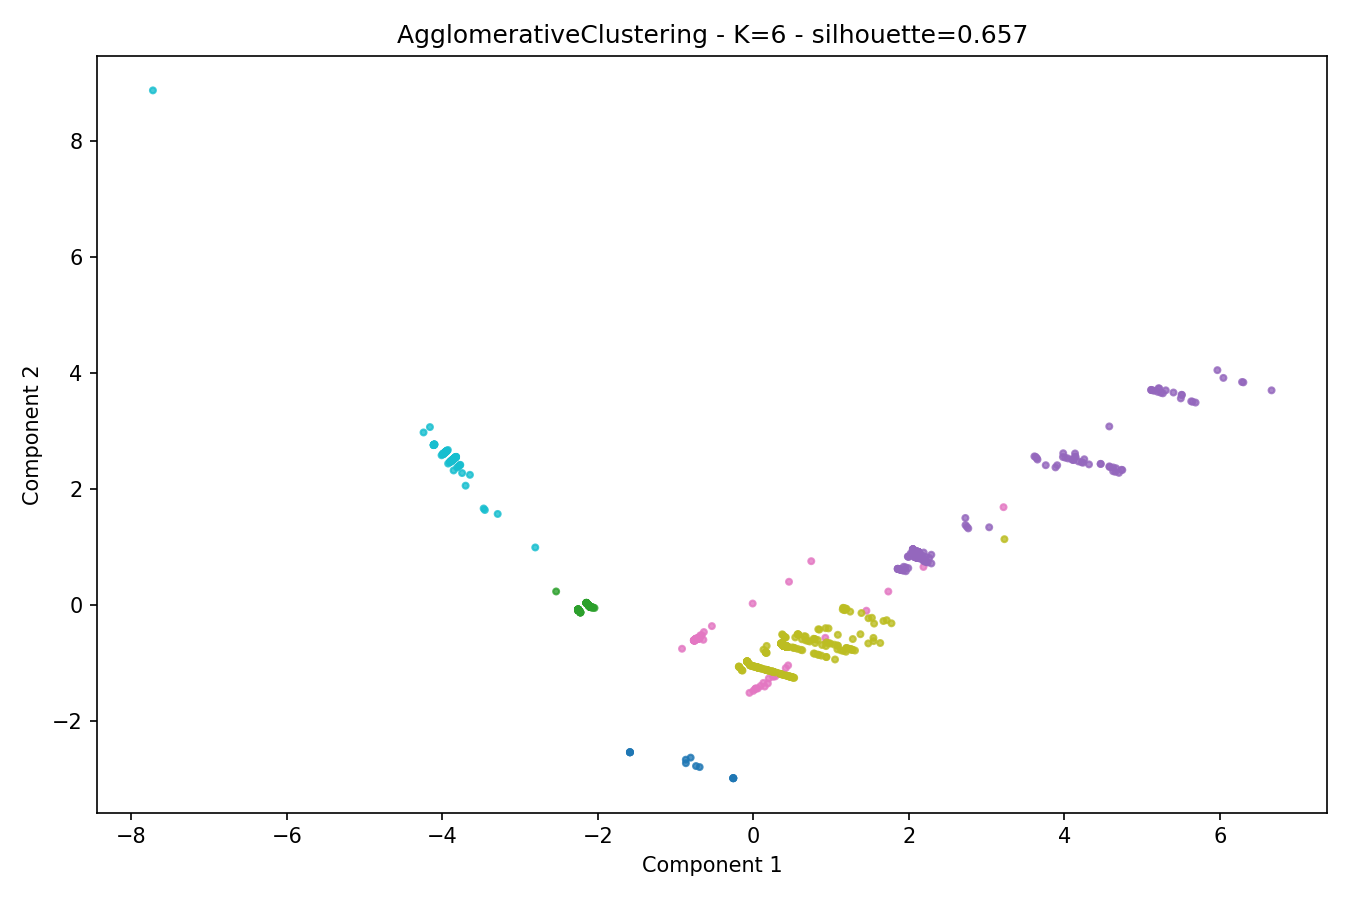
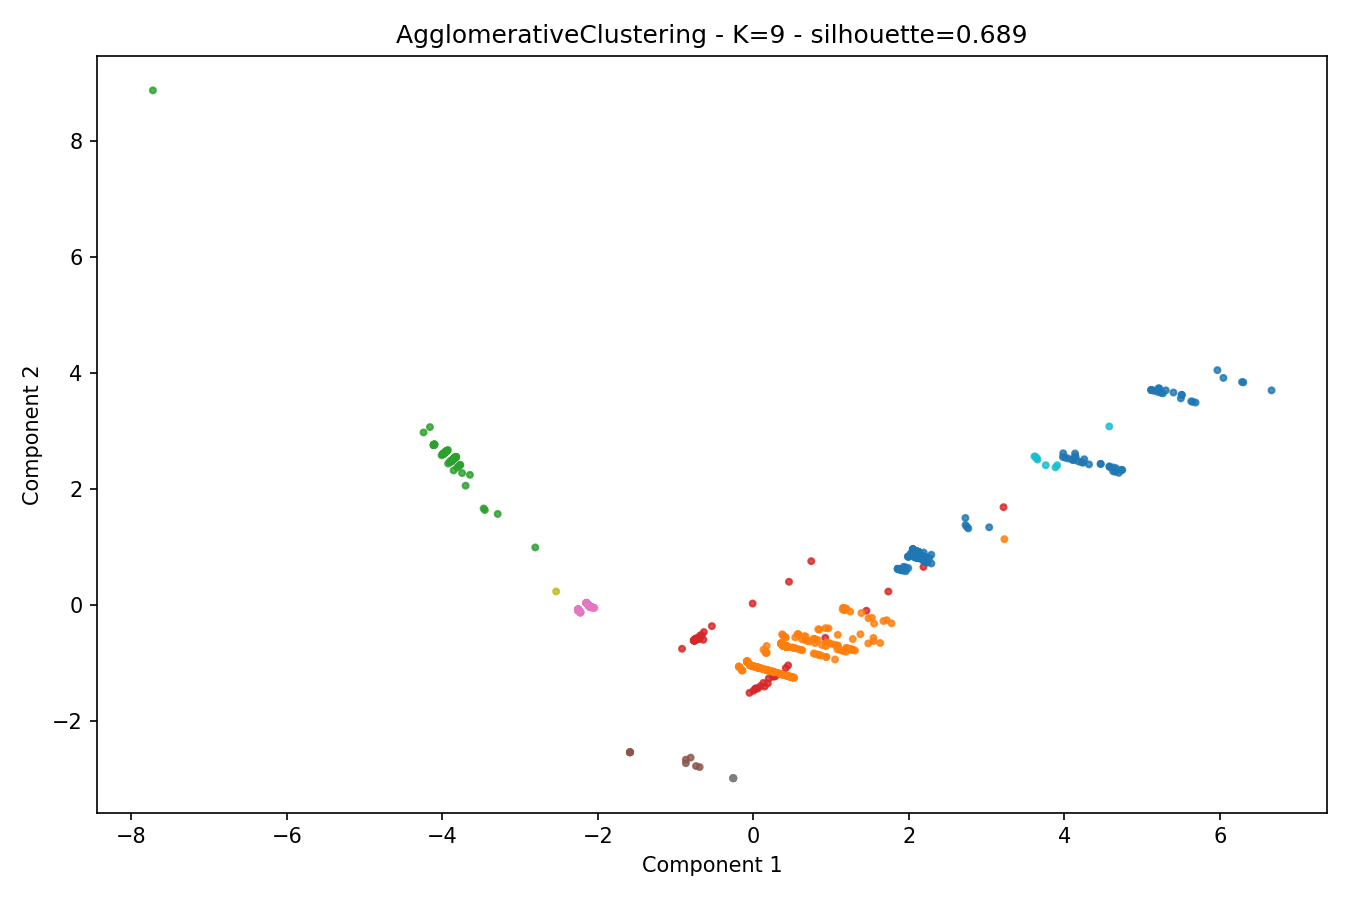
Organisation du TP

diff --git a/apps/src/dbscan.py b/apps/src/dbscan.py
@@ -1,22 +1,16 @@
-import os
 import pandas as pd
 import numpy as np
 import matplotlib.pyplot as plt
 from pathlib import Path
 from sklearn.cluster import DBSCAN
 from sklearn.neighbors import NearestNeighbors
-
-try:
-    from .data_loader import load_data, get_tp_features
-    from .preprocessing import preprocess_data
-except ImportError:
-    from data_loader import load_data, get_tp_features
-    from preprocessing import preprocess_data
-
-# Déterminer le répertoire de base du projet
-BASE_DIR = Path(__file__).resolve().parents[2]
-OUTPUT_FIGURES_DBSCAN = BASE_DIR / "apps" / "output" / "figures" / "dbscan"
-OUTPUT_FIGURES_DBSCAN.mkdir(parents=True, exist_ok=True)
+from sklearn.pipeline import Pipeline
+from sklearn.preprocessing import StandardScaler, OneHotEncoder
+from sklearn.compose import ColumnTransformer
+from sklearn.decomposition import PCA
+from pathlib import Path
+from data_loader import load_data, get_tp_features
+from preprocessing import preprocess_data
 
 ### Préparation de données
 
@@ -24,8 +18,8 @@ print('='*80)
 print('PARTIE 1 - PREPARATION DES DONNEES')
 print('='*80)
 
-# Charger les données via le script commun
-df = load_data("testing")
+# Charger le fichier
+df = load_data("testing").head(20000)
 
 print(f'   - {len(df):,} points')
 print(f'   - Colonnes: {list(df.columns)}')
@@ -42,9 +36,8 @@ print(df.describe())
 # * dpkts : nombre de paquets destination
 # * rate : taux de transfert
 
-features = get_tp_features(df, include_proto=True).columns.tolist()
-numeric_features = get_tp_features(df, include_proto=False).columns.tolist()
-df = df[features]
+features = ['dur', 'sbytes', 'dbytes', 'spkts', 'dpkts', 'rate', 'sttl', 'dttl']
+df = df[features] 
 df = df.head(20000)
 
 # Etape 2: Nettoyage
@@ -65,15 +58,26 @@ print('='*80)
 print('PARTIE 3 - PREPROCESSING')
 print('='*80)
 
-## Preprocessing (commun au projet : one-hot + scaling)
-X_scaled, _ = preprocess_data(df, include_proto=True)
+## Preprocessing
+num_cols = df.select_dtypes(include=["int64", "float64"]).columns
+cat_cols = df.select_dtypes(include=["string"]).columns
+
+preprocessor = ColumnTransformer([
+    ('num', Pipeline([
+        ('scaler',  StandardScaler())
+    ]), num_cols),
+    ('cat', Pipeline([
+        ('encoder', OneHotEncoder(handle_unknown='ignore'))
+    ]), cat_cols)
+])
 
 
 print('\n' + '='*80)
 print('PARTIE 4 - METHODE k-DISTANCE POUR CHOISIR EPSILON')
 print('='*80)
 
-## Trouver les NN
+## Trouver les NN 
+X_scaled = preprocessor.fit_transform(df)
 min_samples = 2 * X_scaled.shape[1]
 
 k = min_samples
@@ -104,8 +108,9 @@ ax.axhline(y=epsilon, color='red', linestyle='--', linewidth=2,
 ax.plot(coude_idx, epsilon, 'ro', markersize=8, label='Coude')
 ax.legend(fontsize=11)
 plt.tight_layout()
-plt.savefig(str(OUTPUT_FIGURES_DBSCAN / "k-distance.png"), dpi=300, bbox_inches='tight')
-# plt.show() - Commenté pour éviter les blocages en mode headless
+Path("apps/output/figures/dbscan").mkdir(parents=True, exist_ok=True)
+plt.savefig("apps/output/figures/dbscan/k-distance.png", dpi=300, bbox_inches='tight')
+plt.show()
 plt.close()
 
 
@@ -136,9 +141,9 @@ for cluster_id in sorted(set(labels)):
     if cluster_id == -1:
         continue
     mask = labels == cluster_id
-    cluster_center = df.loc[mask, numeric_features].mean()
+    cluster_center = df.loc[mask, features].mean()
     print(f'Cluster {cluster_id} :')
-    for col in numeric_features:
+    for col in features:
         print(f'   {col}: {cluster_center[col]:.2f}')
 
 ### Visualisation 
@@ -182,7 +187,7 @@ ax.set_ylabel(y_col, fontsize=12)
 ax.set_title(f'Clusters identifiés par DBSCAN\nN={n_clusters} clusters, bruit={n_bruit} pts', fontsize=14, fontweight='bold')
 ax.legend(loc='best', fontsize=10)
 ax.grid(True, alpha=0.3)
-
+Path("apps/output/figures/dbscan").mkdir(parents=True, exist_ok=True)
 plt.tight_layout()
 plt.savefig(str(OUTPUT_FIGURES_DBSCAN / "clusters.png"), dpi=300, bbox_inches='tight')
 # plt.show() - Commenté pour éviter les blocages en mode headless

diff --git a/apps/src/agglomerative.py b/apps/src/agglomerative.py
@@ -8,12 +8,10 @@ from scipy.cluster.hierarchy import dendrogram, fcluster, linkage
 from sklearn.cluster import AgglomerativeClustering
 from sklearn.metrics import silhouette_score
 
-try:
-    from .data_loader import load_data
-    from .preprocessing import preprocess_data
-except ImportError:
-    from data_loader import load_data
-    from preprocessing import preprocess_data
+
+
+from data_loader import load_data
+from preprocessing import preprocess_data
 
 output_dir = Path(__file__).resolve().parents[1] / "output" / "figures" / "agglomerative"
 
@@ -93,7 +91,7 @@ if __name__ == "__main__":
 #     scores.append(score)
 #     print("K =",k,"score =",score)
 
-    K = 6
+    K = 9
     cut_height = float(np.percentile(Z[:, 2],75))
     labels_height = fcluster(Z, cut_height, criterion="distance")
     height_path = save_cluster_figure(
